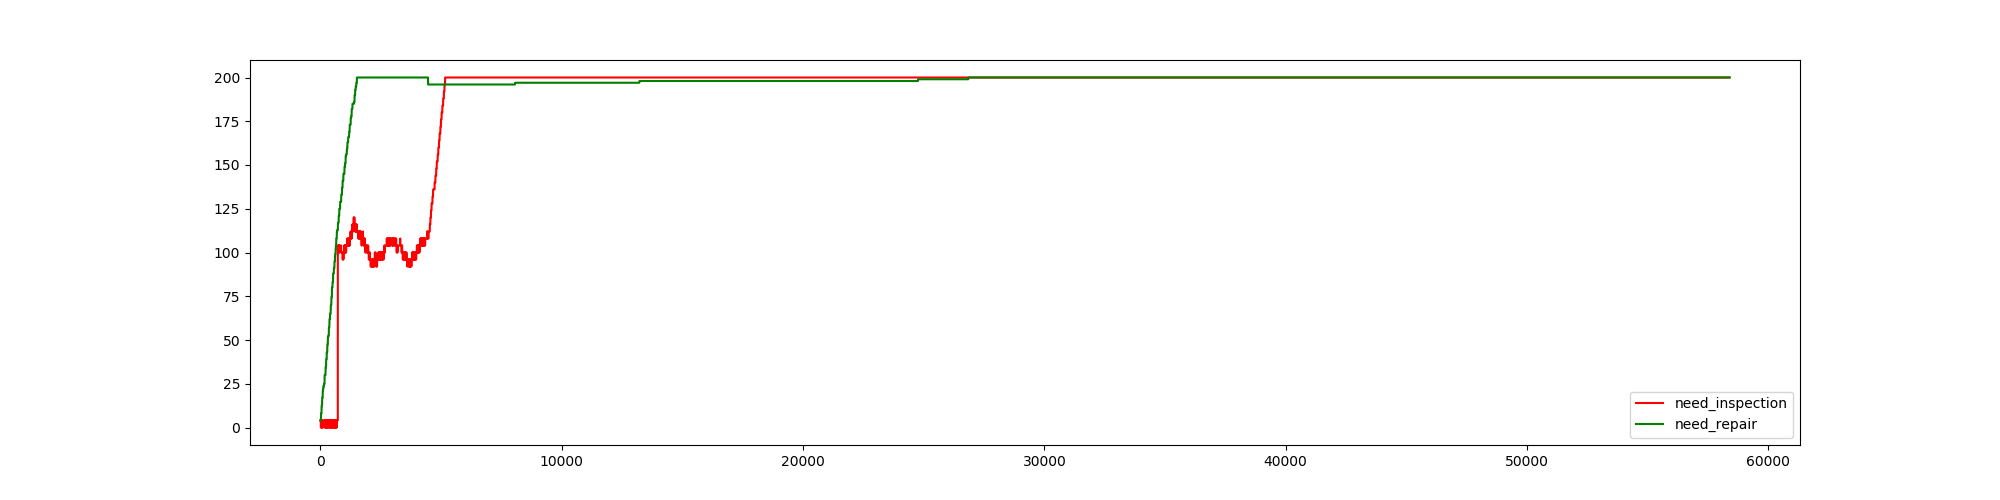
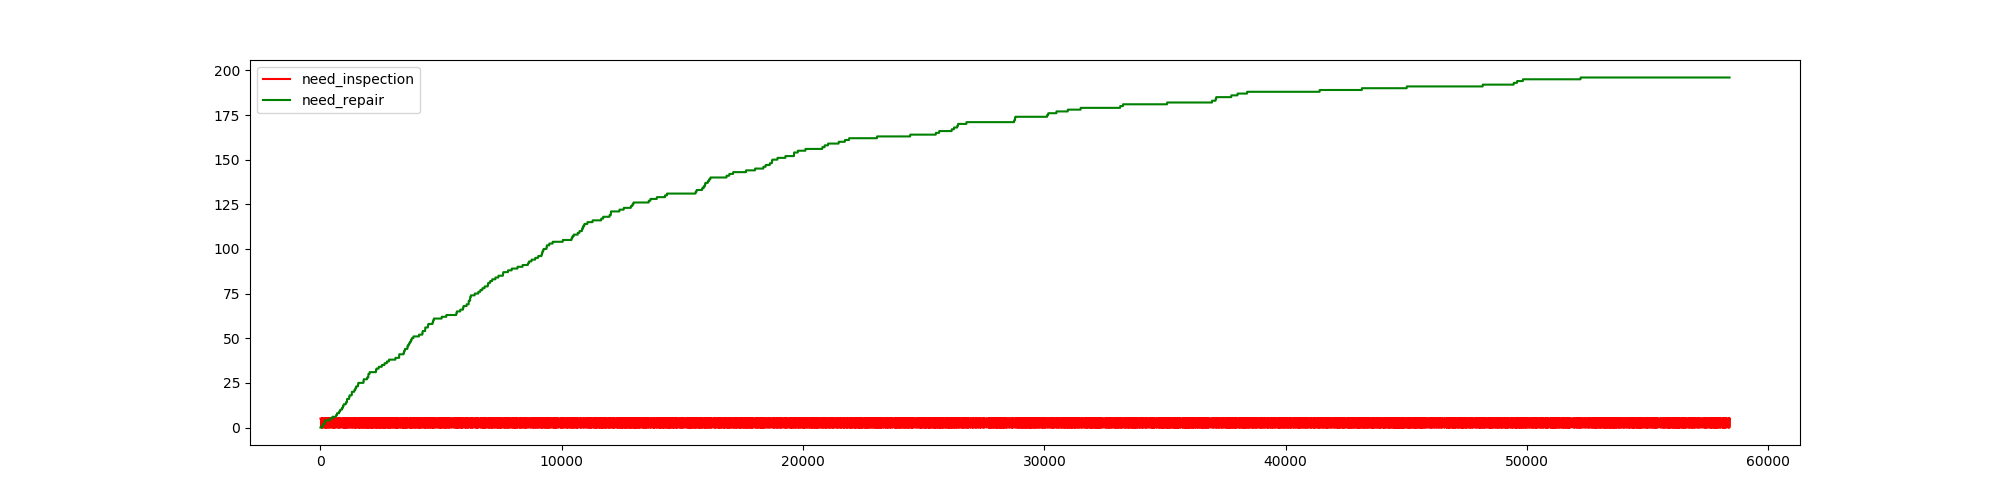
modify all

diff --git a/windfarm_state.py b/windfarm_state.py
@@ -36,7 +36,7 @@ class Windfarm_state():
 				for wf in self.all_windfarm]
 
 	def check_progress_repair_all(self):
-		return [wf.need_repair \
+		return [wf.return_check_present_situation('repair')[1] \
 				for wf in self.all_windfarm]
 
 	def time_from_last_inspection_all(self):
@@ -66,5 +66,7 @@ class Windfarm_state():
 		for wd in self.all_windfarm:
 			wd.check_present_situation('inspection', t, \
 										self.environment.can_work)
+			"""
 			wd.check_present_situation('repair', t, \
 										self.environment.can_work)
+			"""

diff --git a/main.py b/main.py
@@ -67,9 +67,11 @@ def main():
 
 	plt.figure()
 	plt.imshow(plot_array[:, 0:1 * 1000])
+	plt.savefig("1.png")
 	plt.show()
 	plt.figure()
 	plt.imshow(plot_array[:, 1000:2000])
+	plt.savefig("2.png")
 	plt.show()
 
 
